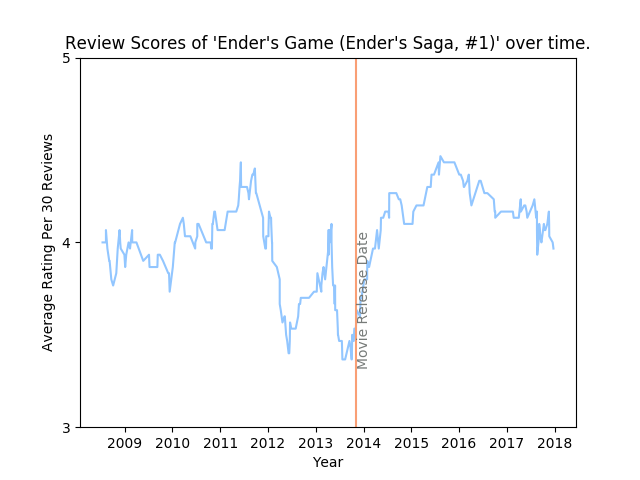
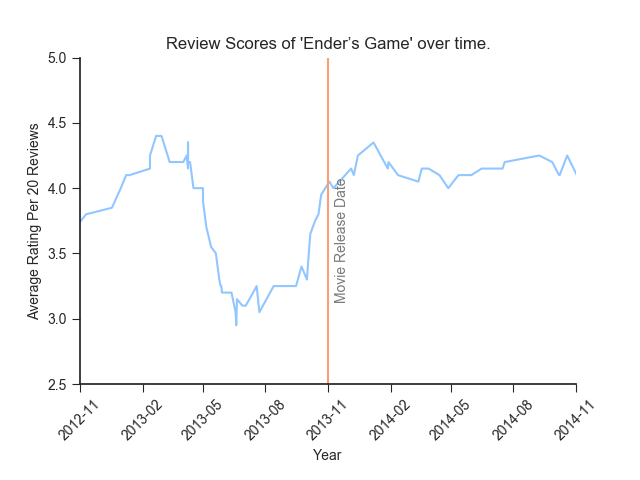
Added New Graphs of Single Books.

diff --git a/GoodreadsEDA/all_bks.py b/GoodreadsEDA/all_bks.py
@@ -149,31 +149,3 @@ print(f"Std. review score after movie release: {df_after_3mo['review_score'].std
 print(f"T-Test (t-statistic): {ttest_ind(df_after_3mo['review_score'], df_before_3mo['review_score'])}")
 print(f"n Before: {df_before_3mo.shape[0]}")
 print(f"n After: {df_after_3mo.shape[0]}")
-# Plotting Parameters
-
-# x = df_before.index
-# y = df_before["review_score_rolling"]
-# x1 = df_after.index
-# y1 = df_after["review_score_rolling"]
-#
-#
-# plt.plot(x, y)
-# plt.plot(x1, y1)
-#
-# plt.yticks(np.arange(2.5, 5.5, .5)) # books are seldom given a score < 3.
-# plt.ylabel(f"Average Rating Per {n_reviews} Reviews")
-#
-# # plot release date of movie as a line and label it.
-# plt.axvline(x=mv_release, color="#f99f75")
-# mv_release_datetime = datetime.strptime(mv_release, "%d %B %Y")
-# plt.text(mv_release_datetime + timedelta(days=10), 4,
-#                                          'Movie Release Date',
-#                                          rotation=90,
-#                                          color='#767a78')
-#
-# plt.xlabel("Year")
-# plt.xlim(mv_release_datetime - relativedelta(years=1),
-#          mv_release_datetime + relativedelta(years=1))
-# plt.title(f"Review Scores of book list over time.")
-# sns.despine()
-# plt.show()

diff --git a/GoodreadsEDA/bk_plt.py b/GoodreadsEDA/bk_plt.py
@@ -11,7 +11,7 @@ plt.style.use('seaborn-pastel')
 import matplotlib.dates as mdates
 from dateutil.relativedelta import relativedelta
 import seaborn as sns
-sns.set_style("white")
+sns.set_style("ticks")
 
 def get_mv_release(bk_m):
     try:
@@ -94,9 +94,11 @@ for i, titl in enumerate(movie_titl):
                                                  color='#767a78')
 
         plt.xlabel("Year")
+        plt.xticks(rotation=45)
         plt.xlim(mv_release_datetime - relativedelta(years=1),
                  mv_release_datetime + relativedelta(years=1))
         plt.title(f"Review Scores of '{bk}' over time.")
+        plt.subplots_adjust(bottom=0.2)
         sns.despine()
         plt.show()
     except ValueError as e:
